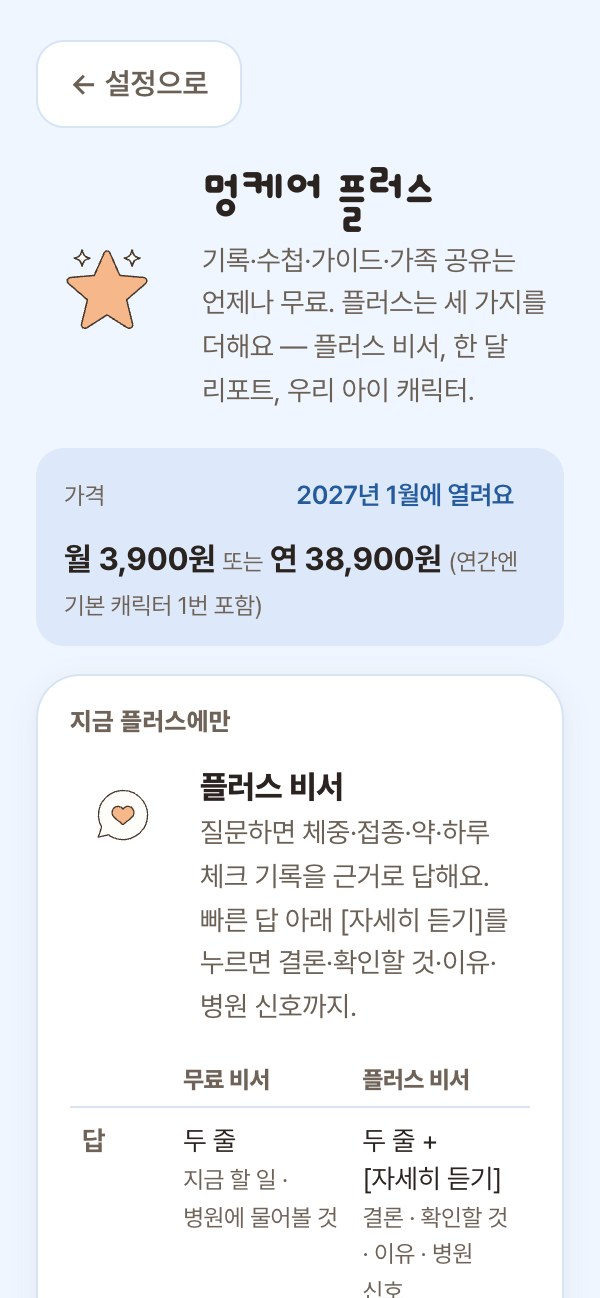
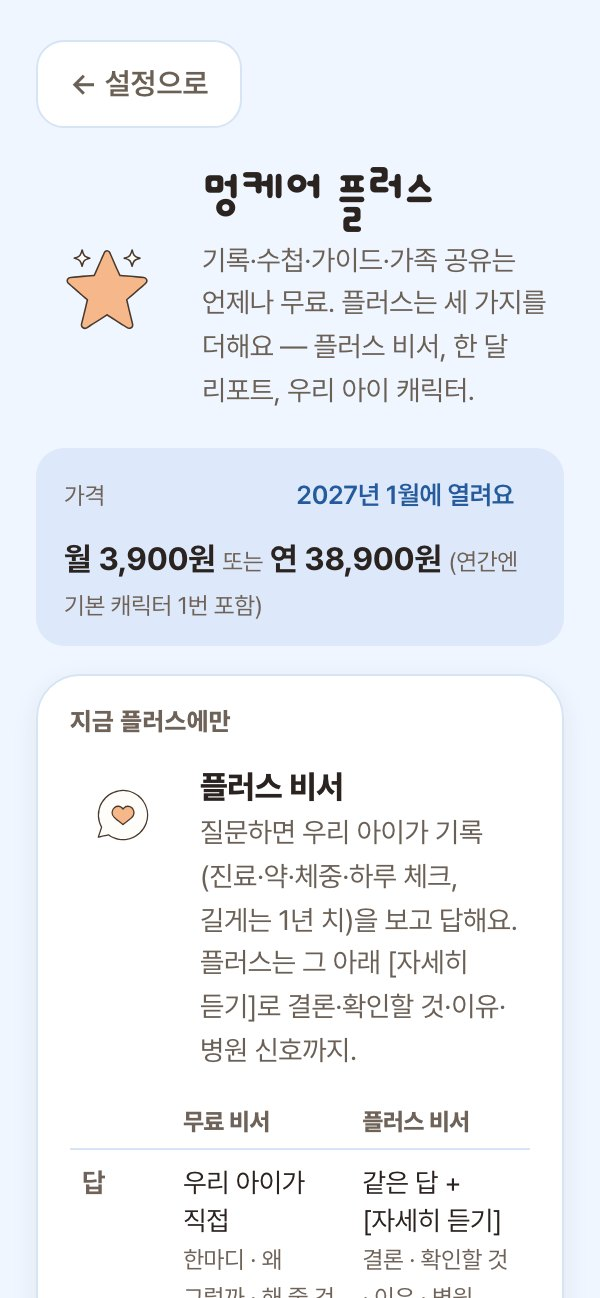
홈페이지: 플러스 섹션 한 장(사용자 확정, 자세한 가격·규칙은 설명서 07), 사업자 주소·통신판매업 신고 접수 표시, App Store 공식 한국어 배지(출시 스위치용), plus.jpg 새 화면 v4, 설명서 08에서 캐릭터 중복 질문 빼고 연간 절약 문장

Changed region(s): [[0.3, 0.6163, 0.84, 1.0], [0.12, 0.8629, 0.18, 0.9245]]

diff --git a/public/intro/guide/index.html b/public/intro/guide/index.html
@@ -45,7 +45,7 @@
     </section>
 
     <div class="wrap g-layout">
-      <aside class="g-side" aria-label="설명서 목차"><p class="g-side-title">목차</p><ul><li><a class="g-side-sec" href="#start"><svg class="sk" aria-hidden="true"><use href="/sk/stickers.svg?v=3#sk-tap"/></svg>처음 시작하기</a><ul><li><a href="#start-install">멍케어는 어디서 받아요?</a></li><li><a href="#start-why">왜 꼭 설치해야 해요?</a></li><li><a href="#start-login">로그인을 꼭 해야 해요?</a></li><li><a href="#start-dog">우리 아이는 어떻게 소개해요?</a></li><li><a href="#start-first">처음 들어가면 뭐부터 해요?</a></li><li><a href="#start-many">강아지가 여러 마리예요</a></li></ul></li><li><a class="g-side-sec" href="#assistant"><svg class="sk" aria-hidden="true"><use href="/sk/stickers.svg?v=3#sk-chatHeart"/></svg>비서 · 하루 체크</a><ul><li><a href="#as-home">첫 화면에는 뭐가 보여요?</a></li><li></li><li><a href="#as-checkin">하루 체크(평소와 같아요)는 뭐예요?</a><a href="#as-outing">말풍선 아래 [다녀올게]는 뭐예요?</a></li><li><a href="#as-puppy">퍼피 100일 카드는 뭐예요?</a></li><li><a href="#as-record">말로 기록하는 건 어떻게 해요?</a></li><li><a href="#as-voice">말로 해도 돼요?</a></li><li><a href="#as-fix">잘못 적었으면 어떻게 고쳐요?</a></li><li><a href="#as-ask">궁금한 걸 적으면 어떻게 돼요? (멍케어 비서)</a></li><li><a href="#as-emergency">급한 일이면요?</a></li><li><a href="#as-safe">멍케어가 진료를 해 주나요?</a></li></ul></li><li><a class="g-side-sec" href="#care"><svg class="sk" aria-hidden="true"><use href="/sk/stickers.svg?v=3#sk-handHeart"/></svg>케어 · 월령별 가이드</a><ul><li><a href="#ca-tab">케어 탭에는 뭐가 있어요?</a></li><li><a href="#ca-stage">지금 시기는 어떻게 정해요?</a></li><li><a href="#ca-card">카드에는 뭐가 적혀 있어요?</a></li><li><a href="#ca-fit">‘우리 아이 맞춤’은 뭐예요?</a></li><li><a href="#ca-ask">카드에 없는 건 어떻게 해요?</a></li><li><a href="#ca-later">성견·중년·노령 카드도 있어요?</a></li><li><a href="#ck-meal">밥 시간은 어떻게 정해요?</a></li><li><a href="#ck-health">건강 체크는 뭐예요?</a></li><li><a href="#ck-feed">사료 계산기는 어떻게 써요?</a></li><li><a href="#ck-food">사료가 떨어지기 전에 알려 줘요?</a></li><li><a href="#ck-alarm">알림·알람은 어떻게 맞춰요?</a></li></ul></li><li><a class="g-side-sec" href="#profile"><svg class="sk" aria-hidden="true"><use href="/sk/stickers.svg?v=3#sk-heartPlain"/></svg>우리 아이 · 기록</a><ul><li><a href="#pf-card">맨 위 카드에는 뭐가 있어요?</a></li><li><a href="#pf-vitals">건강 수치 칸은 어떻게 읽어요?</a></li><li><a href="#pf-records">건강 기록은 뭘 적어요?</a></li><li><a href="#pf-vet">병원용 기록은 뭐예요?</a></li><li><a href="#pf-meds">약은 어떻게 챙겨요?</a></li><li><a href="#pf-report">이번 주 리포트는 뭐예요?</a></li><li><a href="#pf-month">한 달 리포트는 뭐예요?</a></li><li><a href="#pf-settings">설정에는 뭐가 있어요?</a></li></ul></li><li><a class="g-side-sec" href="#calendar"><svg class="sk" aria-hidden="true"><use href="/sk/stickers.svg?v=3#sk-calendar"/></svg>병원 · 일정표</a><ul><li><a href="#cl-doc">진료 정리는 뭐예요?</a></li><li><a href="#cl-add">일정은 어떻게 넣어요?</a></li><li><a href="#cl-repeat">매달 하는 일은요?</a></li><li><a href="#cl-alarm">알림은 언제 와요?</a></li><li><a href="#cl-holiday">빨간 날짜는 뭐예요?</a></li><li><a href="#cl-vet">다녀온 병원도 보여요?</a></li><li><a href="#cl-today">다른 달을 보다가 오늘로 오려면요?</a></li></ul></li><li><a class="g-side-sec" href="#budget"><svg class="sk" aria-hidden="true"><use href="/sk/stickers.svg?v=3#sk-wallet"/></svg>가계부</a><ul><li><a href="#bd-add">쓴 돈은 어떻게 적어요?</a></li><li><a href="#bd-cats">분류는 뭐가 있어요?</a></li><li><a href="#bd-allow">용돈은 뭐예요?</a></li><li><a href="#bd-fixed">매달 나가는 돈은요?</a></li><li><a href="#bd-claim">보험 청구도 챙겨 줘요?</a></li><li><a href="#bd-see">한눈에 보려면요?</a></li><li><a href="#bd-find">예전 지출을 찾거나 내보내려면요?</a></li></ul></li><li><a class="g-side-sec" href="#plus"><svg class="sk" aria-hidden="true"><use href="/sk/stickers.svg?v=3#sk-sparkles"/></svg>멍케어 플러스 · 캐릭터</a><ul><li><a href="#pl-what">플러스에는 뭐가 들어 있어요?</a></li><li><a href="#pl-price">얼마예요? 언제 결제해요?</a></li><li><a href="#pl-char">우리 아이 캐릭터는 어떻게 만들어요?</a></li><li><a href="#pl-photo">캐릭터 사진은 어디로 가요?</a></li></ul></li><li><a class="g-side-sec" href="#more"><svg class="sk" aria-hidden="true"><use href="/sk/stickers.svg?v=3#sk-idea"/></svg>더 궁금한 것</a><ul><li><a href="#mo-away">낮에는 일하느라 집에 없는데 쓸모가 있나요?</a></li><li><a href="#mo-char">우리 아이 캐릭터는 어떻게 만들어요? 사진은 어디로 가요?</a></li><li><a href="#mo-notify">알림이 안 와요</a></li><li><a href="#mo-info">정보 카드는 무엇을 바탕으로 하나요?</a></li><li><a href="#mo-family">여러 마리나 가족과 함께 쓸 수 있나요?</a></li></ul></li></ul></aside>
+      <aside class="g-side" aria-label="설명서 목차"><p class="g-side-title">목차</p><ul><li><a class="g-side-sec" href="#start"><svg class="sk" aria-hidden="true"><use href="/sk/stickers.svg?v=3#sk-tap"/></svg>처음 시작하기</a><ul><li><a href="#start-install">멍케어는 어디서 받아요?</a></li><li><a href="#start-why">왜 꼭 설치해야 해요?</a></li><li><a href="#start-login">로그인을 꼭 해야 해요?</a></li><li><a href="#start-dog">우리 아이는 어떻게 소개해요?</a></li><li><a href="#start-first">처음 들어가면 뭐부터 해요?</a></li><li><a href="#start-many">강아지가 여러 마리예요</a></li></ul></li><li><a class="g-side-sec" href="#assistant"><svg class="sk" aria-hidden="true"><use href="/sk/stickers.svg?v=3#sk-chatHeart"/></svg>비서 · 하루 체크</a><ul><li><a href="#as-home">첫 화면에는 뭐가 보여요?</a></li><li></li><li><a href="#as-checkin">하루 체크(평소와 같아요)는 뭐예요?</a><a href="#as-outing">말풍선 아래 [다녀올게]는 뭐예요?</a></li><li><a href="#as-puppy">퍼피 100일 카드는 뭐예요?</a></li><li><a href="#as-record">말로 기록하는 건 어떻게 해요?</a></li><li><a href="#as-voice">말로 해도 돼요?</a></li><li><a href="#as-fix">잘못 적었으면 어떻게 고쳐요?</a></li><li><a href="#as-ask">궁금한 걸 적으면 어떻게 돼요? (멍케어 비서)</a></li><li><a href="#as-emergency">급한 일이면요?</a></li><li><a href="#as-safe">멍케어가 진료를 해 주나요?</a></li></ul></li><li><a class="g-side-sec" href="#care"><svg class="sk" aria-hidden="true"><use href="/sk/stickers.svg?v=3#sk-handHeart"/></svg>케어 · 월령별 가이드</a><ul><li><a href="#ca-tab">케어 탭에는 뭐가 있어요?</a></li><li><a href="#ca-stage">지금 시기는 어떻게 정해요?</a></li><li><a href="#ca-card">카드에는 뭐가 적혀 있어요?</a></li><li><a href="#ca-fit">‘우리 아이 맞춤’은 뭐예요?</a></li><li><a href="#ca-ask">카드에 없는 건 어떻게 해요?</a></li><li><a href="#ca-later">성견·중년·노령 카드도 있어요?</a></li><li><a href="#ck-meal">밥 시간은 어떻게 정해요?</a></li><li><a href="#ck-health">건강 체크는 뭐예요?</a></li><li><a href="#ck-feed">사료 계산기는 어떻게 써요?</a></li><li><a href="#ck-food">사료가 떨어지기 전에 알려 줘요?</a></li><li><a href="#ck-alarm">알림·알람은 어떻게 맞춰요?</a></li></ul></li><li><a class="g-side-sec" href="#profile"><svg class="sk" aria-hidden="true"><use href="/sk/stickers.svg?v=3#sk-heartPlain"/></svg>우리 아이 · 기록</a><ul><li><a href="#pf-card">맨 위 카드에는 뭐가 있어요?</a></li><li><a href="#pf-vitals">건강 수치 칸은 어떻게 읽어요?</a></li><li><a href="#pf-records">건강 기록은 뭘 적어요?</a></li><li><a href="#pf-vet">병원용 기록은 뭐예요?</a></li><li><a href="#pf-meds">약은 어떻게 챙겨요?</a></li><li><a href="#pf-report">이번 주 리포트는 뭐예요?</a></li><li><a href="#pf-month">한 달 리포트는 뭐예요?</a></li><li><a href="#pf-settings">설정에는 뭐가 있어요?</a></li></ul></li><li><a class="g-side-sec" href="#calendar"><svg class="sk" aria-hidden="true"><use href="/sk/stickers.svg?v=3#sk-calendar"/></svg>병원 · 일정표</a><ul><li><a href="#cl-doc">진료 정리는 뭐예요?</a></li><li><a href="#cl-add">일정은 어떻게 넣어요?</a></li><li><a href="#cl-repeat">매달 하는 일은요?</a></li><li><a href="#cl-alarm">알림은 언제 와요?</a></li><li><a href="#cl-holiday">빨간 날짜는 뭐예요?</a></li><li><a href="#cl-vet">다녀온 병원도 보여요?</a></li><li><a href="#cl-today">다른 달을 보다가 오늘로 오려면요?</a></li></ul></li><li><a class="g-side-sec" href="#budget"><svg class="sk" aria-hidden="true"><use href="/sk/stickers.svg?v=3#sk-wallet"/></svg>가계부</a><ul><li><a href="#bd-add">쓴 돈은 어떻게 적어요?</a></li><li><a href="#bd-cats">분류는 뭐가 있어요?</a></li><li><a href="#bd-allow">용돈은 뭐예요?</a></li><li><a href="#bd-fixed">매달 나가는 돈은요?</a></li><li><a href="#bd-claim">보험 청구도 챙겨 줘요?</a></li><li><a href="#bd-see">한눈에 보려면요?</a></li><li><a href="#bd-find">예전 지출을 찾거나 내보내려면요?</a></li></ul></li><li><a class="g-side-sec" href="#plus"><svg class="sk" aria-hidden="true"><use href="/sk/stickers.svg?v=3#sk-sparkles"/></svg>멍케어 플러스 · 캐릭터</a><ul><li><a href="#pl-what">플러스에는 뭐가 들어 있어요?</a></li><li><a href="#pl-price">얼마예요? 언제 결제해요?</a></li><li><a href="#pl-char">우리 아이 캐릭터는 어떻게 만들어요?</a></li><li><a href="#pl-photo">캐릭터 사진은 어디로 가요?</a></li></ul></li><li><a class="g-side-sec" href="#more"><svg class="sk" aria-hidden="true"><use href="/sk/stickers.svg?v=3#sk-idea"/></svg>더 궁금한 것</a><ul><li><a href="#mo-away">낮에는 일하느라 집에 없는데 쓸모가 있나요?</a></li><li></li><li><a href="#mo-notify">알림이 안 와요</a></li><li><a href="#mo-info">정보 카드는 무엇을 바탕으로 하나요?</a></li><li><a href="#mo-family">여러 마리나 가족과 함께 쓸 수 있나요?</a></li></ul></li></ul></aside>
       <div class="g-content">
       <section class="g-sec" id="start" aria-labelledby="start-t">
         <header class="g-sec-head">
@@ -134,9 +134,9 @@
             <p class="g-sum">지금 쓰는 기능은 전부 계속 무료예요. 플러스는 <b>플러스 비서 · 한 달 리포트 · 우리 아이 캐릭터</b> 세 가지를 더해요. 결제는 2027년 1월에 열려요.</p>
             <nav class="g-qlist" aria-label="멍케어 플러스에서 궁금한 것"><a href="#pl-what">플러스에는 뭐가 들어 있어요?<svg class="ic" aria-hidden="true"><use href="/intro/sprite.svg#i-chev"/></svg></a><a href="#pl-price">얼마예요? 언제 결제해요?<svg class="ic" aria-hidden="true"><use href="/intro/sprite.svg#i-chev"/></svg></a><a href="#pl-char">우리 아이 캐릭터는 어떻게 만들어요?<svg class="ic" aria-hidden="true"><use href="/intro/sprite.svg#i-chev"/></svg></a><a href="#pl-photo">캐릭터 사진은 어디로 가요?<svg class="ic" aria-hidden="true"><use href="/intro/sprite.svg#i-chev"/></svg></a></nav>
           </div>
-          <figure class="g-sec-shot"><img src="/intro/img/plus.jpg?v=3" alt="멍케어 플러스 화면 예시" width="300" height="649" loading="lazy" /><figcaption>예시 화면</figcaption></figure>
+          <figure class="g-sec-shot"><img src="/intro/img/plus.jpg?v=4" alt="멍케어 플러스 화면 예시" width="300" height="649" loading="lazy" /><figcaption>예시 화면</figcaption></figure>
         </header>
-        <article class="g-q" id="pl-what"><h3>플러스에는 뭐가 들어 있어요?</h3><dl class="g-table"><div><dt>플러스 비서</dt><dd>무료 비서는 우리 아이가 한마디와 이유·할 일·병원 신호로 답해요(새 질문 하루 5개, 이어 묻기 두 번씩). 플러스는 그 아래 [자세히 듣기]로 결론 · 집에서 확인할 것 · 생각해 볼 이유 · 병원에 가야 할 신호 · 병원에서 할 말 다섯 칸(하루 20번). 둘 다 우리 아이 기록을 보고 답해요.</dd></div><div><dt>한 달 리포트</dt><dd>지난달과 달라진 점 세 줄 · 증상 난 날 앞뒤 겹쳐 보기 · 달력 한 장 · 체중 흐름 · 이 달 자랑 카드 · 비서 세 칸 해설(잘한 것 · 지켜볼 것 · 다음 달 할 일). <a href="#pf-month">자세히</a></dd></div><div><dt>우리 아이 캐릭터</dt><dd>연간 플러스엔 기본 캐릭터 1번이 들어 있고, 정성 올리기·그림체 추가는 플러스 할인이에요.</dd></div></dl><p class="g-note"><svg class="sk" aria-hidden="true"><use href="/sk/stickers.svg?v=3#sk-heart"/></svg><span>하루 체크 · 기록 · 병원용 기록 · 이상 신호 · 알림 · 이번 주 리포트 · 월령별 가이드 · 가족 공유 · 여러 마리는 플러스와 상관없이 계속 무료예요.</span></p></article><article class="g-q" id="pl-price"><h3>얼마예요? 언제 결제해요?</h3><p>가격은 <b>월 3,900원 또는 연 38,900원</b>이에요. 캐릭터 단품은 기본 4,900원(후보 4장 → 1장, 기본 움직임 2편) · 정성 9,900원(부가 동작 3편) · 다른 그림체 추가 3,900원이에요.</p><p><b>결제는 2027년 1월에 열려요.</b> 설정 → <b>멍케어 플러스</b>에서 <b>[열리면 알려 주세요]</b>를 켜 두면 열리는 날 알림을 보내 드려요. 정해 둔 규칙 네 가지: 연간을 중간에 해지하면 쓴 달을 월 3,900원으로 빼고(캐릭터를 만들었으면 4,900원도) 나머지를 돌려드려요 · 월간은 해지해도 그달 결제일 전날까지 쓰고 환불은 없어요 · 자동 갱신 7일 전에 이메일로 알려요 · 결제는 만 19세 이상만.</p></article><article class="g-q" id="pl-char"><h3>우리 아이 캐릭터는 어떻게 만들어요?</h3><ol class="g-steps"><li>설정 → 멍케어 플러스 → <b>우리 아이 캐릭터</b>. 결제가 열리는 2027년 1월부터 만들 수 있어요. 그 전에는 <b>[열리면 알려 주세요]</b>를 켜 둬요.</li><li>그림체를 골라요. <b>3D 영화풍</b>(포근한 애니메이션 느낌) 또는 <b>손그림 크레파스</b>(그림일기 느낌).</li><li>얼굴이 잘 보이는 사진 <b>2~4장</b>을 올리고 동의(만 19세 이상 · 국외 전송 · 시작 뒤 취소 불가)에 체크해요.</li><li>3분쯤 뒤 <b>후보 4장</b>이 나와요. 가장 닮은 하나를 고르고, 아니면 [다시 뽑기](2번까지).</li><li>10분쯤 뒤 <b>기다리기 · 고민하기</b> 영상 2편이 완성되고, 첫 화면 강아지가 우리 아이로 바뀌어요. 만드는 동안 첫 화면 오른쪽 위에 발바닥 게이지가 돌아요.</li></ol><p>정성은 기쁨 · 밥 기다림 · 졸림 세 편을 더해요. 캐릭터 화면에서 각 동작을 켜고 끄고, 몇 초·몇 분 전후·몇 시부터 졸지 맞출 수 있어요. 밤엔 졸고, 밥 시간엔 그릇을 보고, 기록을 저장하면 기뻐해요.</p><p class="g-tip"><svg class="sk" aria-hidden="true"><use href="/sk/stickers.svg?v=3#sk-idea"/></svg><span><b>잘 나오게 하려면</b> 정면·옆·전신이 섞인 밝은 사진이 좋아요. 목줄·옷은 빼고, 다른 강아지가 같이 찍힌 사진은 피해요.</span></p></article><article class="g-q" id="pl-photo"><h3>캐릭터 사진은 어디로 가요?</h3><p>올리기 전에 폰에서 <b>위치·기기 정보(EXIF)를 지우고</b> 크기를 줄여요. 그림은 Google Gemini, 영상은 Runway(미국) 서버에서 만들어지고, <b>캐릭터가 완성되면 원본 사진은 바로 지워요</b>. 완성된 캐릭터 영상만 멍케어 서버에 남아 우리 아이 화면에 쓰여요.</p><p>캐릭터는 설정 → 우리 아이 캐릭터에서 언제든 지울 수 있고, 기록·병원용 기록과는 상관없이 따로 저장돼요.</p></article>
+        <article class="g-q" id="pl-what"><h3>플러스에는 뭐가 들어 있어요?</h3><dl class="g-table"><div><dt>플러스 비서</dt><dd>무료 비서는 우리 아이가 한마디와 이유·할 일·병원 신호로 답해요(새 질문 하루 5개, 이어 묻기 두 번씩). 플러스는 그 아래 [자세히 듣기]로 결론 · 집에서 확인할 것 · 생각해 볼 이유 · 병원에 가야 할 신호 · 병원에서 할 말 다섯 칸(하루 20번). 둘 다 우리 아이 기록을 보고 답해요.</dd></div><div><dt>한 달 리포트</dt><dd>지난달과 달라진 점 세 줄 · 증상 난 날 앞뒤 겹쳐 보기 · 달력 한 장 · 체중 흐름 · 이 달 자랑 카드 · 비서 세 칸 해설(잘한 것 · 지켜볼 것 · 다음 달 할 일). <a href="#pf-month">자세히</a></dd></div><div><dt>우리 아이 캐릭터</dt><dd>연간 플러스엔 기본 캐릭터 1번이 들어 있고, 정성 올리기·그림체 추가는 플러스 할인이에요.</dd></div></dl><p class="g-note"><svg class="sk" aria-hidden="true"><use href="/sk/stickers.svg?v=3#sk-heart"/></svg><span>하루 체크 · 기록 · 병원용 기록 · 이상 신호 · 알림 · 이번 주 리포트 · 월령별 가이드 · 가족 공유 · 여러 마리는 플러스와 상관없이 계속 무료예요.</span></p></article><article class="g-q" id="pl-price"><h3>얼마예요? 언제 결제해요?</h3><p>가격은 <b>월 3,900원 또는 연 38,900원</b>이에요. 연간은 매달 내는 것(46,800원)보다 7,900원 싸고, 기본 캐릭터 1번(4,900원 상당)이 들어 있어요. 캐릭터 단품은 기본 4,900원(후보 4장 → 1장, 기본 움직임 2편) · 정성 9,900원(부가 동작 3편) · 다른 그림체 추가 3,900원이에요.</p><p><b>결제는 2027년 1월에 열려요.</b> 설정 → <b>멍케어 플러스</b>에서 <b>[열리면 알려 주세요]</b>를 켜 두면 열리는 날 알림을 보내 드려요. 정해 둔 규칙 네 가지: 연간을 중간에 해지하면 쓴 달을 월 3,900원으로 빼고(캐릭터를 만들었으면 4,900원도) 나머지를 돌려드려요 · 월간은 해지해도 그달 결제일 전날까지 쓰고 환불은 없어요 · 자동 갱신 7일 전에 이메일로 알려요 · 결제는 만 19세 이상만.</p></article><article class="g-q" id="pl-char"><h3>우리 아이 캐릭터는 어떻게 만들어요?</h3><ol class="g-steps"><li>설정 → 멍케어 플러스 → <b>우리 아이 캐릭터</b>. 결제가 열리는 2027년 1월부터 만들 수 있어요. 그 전에는 <b>[열리면 알려 주세요]</b>를 켜 둬요.</li><li>그림체를 골라요. <b>3D 영화풍</b>(포근한 애니메이션 느낌) 또는 <b>손그림 크레파스</b>(그림일기 느낌).</li><li>얼굴이 잘 보이는 사진 <b>2~4장</b>을 올리고 동의(만 19세 이상 · 국외 전송 · 시작 뒤 취소 불가)에 체크해요.</li><li>3분쯤 뒤 <b>후보 4장</b>이 나와요. 가장 닮은 하나를 고르고, 아니면 [다시 뽑기](2번까지).</li><li>10분쯤 뒤 <b>기다리기 · 고민하기</b> 영상 2편이 완성되고, 첫 화면 강아지가 우리 아이로 바뀌어요. 만드는 동안 첫 화면 오른쪽 위에 발바닥 게이지가 돌아요.</li></ol><p>정성은 기쁨 · 밥 기다림 · 졸림 세 편을 더해요. 캐릭터 화면에서 각 동작을 켜고 끄고, 몇 초·몇 분 전후·몇 시부터 졸지 맞출 수 있어요. 밤엔 졸고, 밥 시간엔 그릇을 보고, 기록을 저장하면 기뻐해요.</p><p class="g-tip"><svg class="sk" aria-hidden="true"><use href="/sk/stickers.svg?v=3#sk-idea"/></svg><span><b>잘 나오게 하려면</b> 정면·옆·전신이 섞인 밝은 사진이 좋아요. 목줄·옷은 빼고, 다른 강아지가 같이 찍힌 사진은 피해요.</span></p></article><article class="g-q" id="pl-photo"><h3>캐릭터 사진은 어디로 가요?</h3><p>올리기 전에 폰에서 <b>위치·기기 정보(EXIF)를 지우고</b> 크기를 줄여요. 그림은 Google Gemini, 영상은 Runway(미국) 서버에서 만들어지고, <b>캐릭터가 완성되면 원본 사진은 바로 지워요</b>. 완성된 캐릭터 영상만 멍케어 서버에 남아 우리 아이 화면에 쓰여요.</p><p>캐릭터는 설정 → 우리 아이 캐릭터에서 언제든 지울 수 있고, 기록·병원용 기록과는 상관없이 따로 저장돼요.</p></article>
         <a class="g-next" href="/?app"><span>다 읽었어요!</span><b>멍케어 시작하기</b><svg class="ic" aria-hidden="true"><use href="/intro/sprite.svg#i-chev"/></svg></a>
       </section>
         <section class="g-sec" id="more" aria-labelledby="more-t">
@@ -145,11 +145,10 @@
             <p class="g-sec-num">08</p>
             <h2 id="more-t"><svg class="sk" aria-hidden="true"><use href="/sk/stickers.svg?v=3#sk-idea"/></svg>더 궁금한 것</h2>
             <p class="g-sum">소개 페이지의 자주 묻는 질문에서 옮겨 온 것들이에요.</p>
-            <nav class="g-qlist" aria-label="더 궁금한 것"><a href="#mo-away">낮에는 일하느라 집에 없는데 쓸모가 있나요?<svg class="ic" aria-hidden="true"><use href="/intro/sprite.svg#i-chev"/></svg></a><a href="#mo-char">우리 아이 캐릭터는 어떻게 만들어요? 사진은 어디로 가요?<svg class="ic" aria-hidden="true"><use href="/intro/sprite.svg#i-chev"/></svg></a><a href="#mo-notify">알림이 안 와요<svg class="ic" aria-hidden="true"><use href="/intro/sprite.svg#i-chev"/></svg></a><a href="#mo-info">정보 카드는 무엇을 바탕으로 하나요?<svg class="ic" aria-hidden="true"><use href="/intro/sprite.svg#i-chev"/></svg></a><a href="#mo-family">여러 마리나 가족과 함께 쓸 수 있나요?<svg class="ic" aria-hidden="true"><use href="/intro/sprite.svg#i-chev"/></svg></a></nav>
+            <nav class="g-qlist" aria-label="더 궁금한 것"><a href="#mo-away">낮에는 일하느라 집에 없는데 쓸모가 있나요?<svg class="ic" aria-hidden="true"><use href="/intro/sprite.svg#i-chev"/></svg></a><a href="#mo-notify">알림이 안 와요<svg class="ic" aria-hidden="true"><use href="/intro/sprite.svg#i-chev"/></svg></a><a href="#mo-info">정보 카드는 무엇을 바탕으로 하나요?<svg class="ic" aria-hidden="true"><use href="/intro/sprite.svg#i-chev"/></svg></a><a href="#mo-family">여러 마리나 가족과 함께 쓸 수 있나요?<svg class="ic" aria-hidden="true"><use href="/intro/sprite.svg#i-chev"/></svg></a></nav>
           </div>
         </header>
         <article class="g-q" id="mo-away"><h3>낮에는 일하느라 집에 없는데 쓸모가 있나요?</h3><p>네. 나갈 때 <b>[다녀올게]</b>를 누르면 혼자 있는 시간을 챙겨 주고, 평소 외출 시간을 정해 두면 들어오는 시각 30분 뒤에 하루 체크 알림이 와요. 하루 기록은 <b>한 번</b>이면 되고, 일요일 저녁엔 한 주를 모은 <b>주간 리포트</b>가 와요. 사료가 떨어지기 5일 전 점심에도 미리 알려 줘요.</p></article>
-        <article class="g-q" id="mo-char"><h3>우리 아이 캐릭터는 어떻게 만들어요? 사진은 어디로 가요?</h3><p>설정 → 멍케어 플러스 → <b>우리 아이 캐릭터</b>에서 그림체(3D 영화풍 / 손그림 크레파스)를 고르고 사진 2~4장을 올려요. 후보 4장이 나오면 가장 닮은 하나를 고르고(다시 뽑기 2번), 10분쯤 뒤 기다리기·고민하기 영상 2편이 첫 화면 강아지 자리에 들어가요. 정성은 기쁨·밥 기다림·졸림 세 편을 더하고, 캐릭터 화면에서 켜고 끄고 시간을 맞출 수 있어요. 사진은 위치 정보를 지운 뒤 그림·영상 AI(해외 서버)로 보내고, <b>캐릭터를 만든 뒤 바로 지워요</b>. 시작할 때 만 19세 이상 확인과 국외 전송 동의를 받고, 생성이 시작되면 취소할 수 없어요. 지금은 곧 출시 상태라 “출시되면 알려 주세요”를 켜 두거나 초대 코드로 먼저 써 볼 수 있어요.</p></article>
         <article class="g-q" id="mo-notify"><h3>알림이 안 와요</h3><p>아이폰은 홈 화면에 설치한 멍케어로 열었을 때만 알림을 받을 수 있어요. 앱의 알림·알람 화면에서 알림을 켜 주세요. 한 번 거절했다면 아이폰 설정 → 알림 → 멍케어에서 켤 수 있어요.</p></article>
         <article class="g-q" id="mo-info"><h3>정보 카드는 무엇을 바탕으로 하나요?</h3><p>WSAVA(세계소동물수의사회)·Merck 수의학 매뉴얼 같은 공개 수의학 자료를 바탕으로 만들고, 사실을 하나씩 확인했어요. 초콜릿·포도를 먹었거나 경련, 숨쉬기 이상처럼 응급일 수 있는 말이 보이면 <b>지금 바로 동물병원에 연락</b>하라고 먼저 알려 드리고, 24시 동물병원 찾기를 보여 드려요. 약 이름이나 용량은 알려 드리지 않아요.</p></article>
         <article class="g-q" id="mo-family"><h3>여러 마리나 가족과 함께 쓸 수 있나요?</h3><p>네. 강아지를 여러 마리 등록해 따로 관리할 수 있고, 로그인하면 가족을 초대해 같은 기록을 함께 볼 수 있어요. 강아지가 본가에 있으면 가족이 적은 “다른 게 있었어요”를 알림으로 받아요. 지금은 강아지만 지원해요.</p></article>

diff --git a/public/intro/index.html b/public/intro/index.html
@@ -386,87 +386,16 @@
     <!-- 5.5 멍케어 플러스(11/19): 무료 범위 먼저, 플러스 세 가지, 결제는 2027년 1월(11/25) -->
     <section class="plus" id="plus" aria-labelledby="plus-title">
       <div class="wrap">
-        <p class="kicker center">멍케어 플러스</p>
+        <p class="kicker center">멍케어 플러스 · 2027년 1월에 열려요</p>
         <h2 id="plus-title" class="sec-title">더 깊이 알고 싶은 날엔 <em>플러스</em></h2>
-        <p class="plus-lead">하루 체크 · 기록 · 병원용 기록 · 이상 신호 · 알림 · 이번 주 리포트 · 월령별 가이드 · 가족 공유 · 여러 마리 — <b>지금 쓰는 건 전부 계속 무료</b>예요. 플러스는 여기에 세 가지를 더해요.</p>
-
+        <p class="plus-lead">지금 쓰는 기능은 <b>전부 계속 무료</b>예요. 플러스는 여기에 세 가지를 더해요.</p>
         <div class="pl-three" aria-label="플러스에 들어 있는 세 가지">
-          <a class="pl-tile" href="#pl-asst"><svg class="sk" aria-hidden="true"><use href="/sk/stickers.svg?v=3#sk-chatHeart"/></svg><b>플러스 비서</b><small>자세한 답 · 하루 20번</small></a>
-          <a class="pl-tile" href="#pl-month"><svg class="sk" aria-hidden="true"><use href="/sk/stickers.svg?v=3#sk-calendar"/></svg><b>한 달 리포트</b><small>달라진 점 · 겹쳐 보기</small></a>
-          <a class="pl-tile" href="#pl-char"><svg class="sk" aria-hidden="true"><use href="/sk/stickers.svg?v=3#sk-video"/></svg><b>우리 아이 캐릭터</b><small>연간에 기본 1번 포함</small></a>
+          <div class="pl-tile"><svg class="sk" aria-hidden="true"><use href="/sk/stickers.svg?v=3#sk-chatHeart"/></svg><b>플러스 비서</b><small>자세한 다섯 칸 답</small></div>
+          <div class="pl-tile"><svg class="sk" aria-hidden="true"><use href="/sk/stickers.svg?v=3#sk-calendar"/></svg><b>한 달 리포트</b><small>달라진 점 · 겹쳐 보기</small></div>
+          <div class="pl-tile"><svg class="sk" aria-hidden="true"><use href="/sk/stickers.svg?v=3#sk-video"/></svg><b>우리 아이 캐릭터</b><small>사진으로 만드는 움직이는 캐릭터</small></div>
         </div>
-
-        <div class="pl-plans" aria-label="플러스 가격">
-          <div class="pl-plan on">
-            <span class="pl-tag">17% 절약</span>
-            <div class="pl-nm">1년</div>
-            <div class="pl-price">38,900<small>원</small></div>
-            <p>1년에 한 번 결제<br>월 3,900 × 12 = 46,800원보다 7,900원 아껴요</p>
-            <div class="pl-bonus"><svg class="sk" aria-hidden="true"><use href="/sk/stickers.svg?v=3#sk-video"/></svg><span><b>기본 캐릭터 1번 포함</b>4,900원 상당</span></div>
-          </div>
-          <div class="pl-plan">
-            <div class="pl-nm">한 달</div>
-            <div class="pl-price">3,900<small>원</small></div>
-            <p>매달 같은 날 결제<br>언제든 해지</p>
-            <p class="pl-dim">캐릭터는 단품으로 따로</p>
-          </div>
-        </div>
-
-        <table class="pl-cmp" aria-label="무료와 플러스 비교">
-          <thead><tr><th></th><th>무료</th><th class="pl">플러스</th></tr></thead>
-          <tbody>
-            <tr><td>하루 체크 · 기록 · 병원용 기록 · 알림 · 가족 공유</td><td class="ok">✓</td><td class="pl ok">✓</td></tr>
-            <tr><td>비서에게 묻기</td><td>하루 질문 5개</td><td class="pl ok">하루 질문 50개</td></tr>
-            <tr><td>비서 자세히 듣기(다섯 칸)</td><td class="no">—</td><td class="pl ok">하루 20번</td></tr>
-            <tr><td>한 달 리포트</td><td class="no">—</td><td class="pl ok">✓</td></tr>
-            <tr><td>우리 아이 캐릭터</td><td>단품 4,900원~</td><td class="pl ok">연간 1번 포함</td></tr>
-          </tbody>
-        </table>
-
-        <div class="pl-detail">
-          <article class="plus-card" id="pl-asst">
-            <figure class="phone mini"><img src="/intro/img/plus.jpg?v=3" alt="멍케어 플러스 화면 — 가격과 플러스 비서 설명" width="300" height="649" loading="lazy" /></figure>
-            <div class="plus-text">
-              <svg class="sk" aria-hidden="true"><use href="/sk/stickers.svg?v=3#sk-chatHeart"/></svg>
-              <b>플러스 비서</b>
-              <p>누구나 먼저 우리 아이가 기록을 보고 <b>한마디 · 왜 그럴까 · 지금 해 줄 것 · 병원 신호</b>로 답하고, 같은 이야기로 두 번까지 이어서 물을 수 있어요. 플러스는 그 아래 <b>[자세히 듣기]</b>를 누르면 <b>결론 → 집에서 확인할 것 → 생각해 볼 이유 → 병원에 가야 할 신호 → 병원에서 할 말</b> 다섯 칸으로 와요. 둘 다 우리 아이 기록을 보고 답하고, 진단을 단정하거나 약 용량을 말하지 않아요.</p>
-            </div>
-          </article>
-          <article class="plus-card" id="pl-month">
-            <figure class="phone mini"><img src="/intro/img/month.jpg?v=15" alt="한 달 리포트 화면 — 달력 한 장과 체중 곡선" width="300" height="649" loading="lazy" /></figure>
-            <div class="plus-text">
-              <svg class="sk" aria-hidden="true"><use href="/sk/stickers.svg?v=3#sk-calendar"/></svg>
-              <b>한 달 리포트</b>
-              <p>지난달과 <b>달라진 점 세 줄</b>(산책이 5일 → 12일처럼 숫자만), 증상 난 날 <b>앞뒤를 겹쳐 보기</b>(전날 밥을 적게 먹었나), 달력 한 장, 체중 흐름, 달마다 상장을 하나씩 받는 그림일기 <b>자랑 카드</b>(누구나 받고 순위는 없어요). 플러스 비서가 <b>잘한 것 · 지켜볼 것 · 다음 달 할 일</b> 세 칸으로 읽어 줘요. 이번 주 리포트는 계속 무료.</p>
-            </div>
-          </article>
-        </div>
-
-        <div class="pl-single" id="pl-char">
-          <div class="pl-single-head">
-            <svg class="sk" aria-hidden="true"><use href="/sk/stickers.svg?v=3#sk-video"/></svg>
-            <div><b>우리 아이 캐릭터</b><span>플러스 없이 단품으로도 가져요</span></div>
-          </div>
-          <p class="pl-single-lead">사진 2~4장을 올리면 <b>우리 아이를 닮은 후보 4장</b>이 나와요. 고른 그림이 <b>움직이는 영상</b>이 돼 첫 화면 강아지 자리에 살아요.</p>
-          <div class="plus-art" aria-label="같은 강아지로 만든 두 그림체 예시">
-            <figure><img src="/character/sample-3d.jpg" alt="3D 영화풍 캐릭터 예시" width="480" height="480" loading="lazy" /><figcaption>3D 영화풍</figcaption></figure>
-            <figure><img src="/character/sample-hand.jpg" alt="손그림 크레파스 캐릭터 예시" width="480" height="480" loading="lazy" /><figcaption>손그림 크레파스</figcaption></figure>
-          </div>
-          <div class="pl-tiers">
-            <div class="pl-tier"><div><b>기본</b><span>후보 4장 중 1장 · 다시 뽑기 2번 · 움직임 2편(기다리기 · 고민하기)</span></div><em>4,900<small>원</small></em></div>
-            <div class="pl-tier"><div><b>정성</b><span>기본 + 부가 동작 3편(기쁨 · 밥 기다림 · 졸림) · 다시 뽑기 4번 · 사람이 보정</span></div><em>9,900<small>원</small></em></div>
-            <div class="pl-tier add"><div><b>다른 그림체 하나 더</b><span>추가로 내는 돈 · 플러스면 2,900원</span></div><em>+3,900<small>원</small></em></div>
-          </div>
-          <p class="pl-warn"><svg class="sk" aria-hidden="true"><use href="/sk/stickers.svg?v=3#sk-lock"/></svg><span><b>후보를 먼저 보고 골라요.</b> 하나도 안 닮으면 그 자리에서 전액 환불. 만든 뒤에는 디지털 콘텐츠라 단순 변심 환불이 안 돼요. 사진은 캐릭터가 완성되면 지워요.</span></p>
-        </div>
-
-        <div class="pl-policy" aria-label="결제 정책">
-          <div><b>연간 중도 해지</b>쓴 달을 월 3,900원으로 빼고, 캐릭터를 만들었으면 4,900원도 빼고 나머지를 돌려드려요. 위약금 없음.</div>
-          <div><b>월간 해지</b>해지해도 그달 결제일 전날까지 쓰고, 다음 달부터 결제되지 않아요.</div>
-          <div><b>자동 갱신 알림</b>결제 7일 전에 이메일로 미리 알려요. 해지는 설정 › 플러스에서 한 번에.</div>
-          <div><b>결제 나이</b>플러스·캐릭터 모두 만 19세 이상만 결제할 수 있어요.</div>
-        </div>
-        <p class="plus-price-beta"><svg class="sk" aria-hidden="true"><use href="/sk/stickers.svg?v=3#sk-sparkles"/></svg><span><b>결제는 2027년 1월에 열려요.</b> 설정 → <b>멍케어 플러스</b>에서 <b>[열리면 알려 주세요]</b>를 켜 두면 열리는 날 알림을 보내 드려요.</span></p>
+        <p class="pl-one">월 <b>3,900원</b> · 연 <b>38,900원</b><span>연간엔 캐릭터 1번 포함</span></p>
+        <p class="pl-more"><a class="btn btn-lg btn-ghost" href="/intro/guide/#plus">가격·환불 규칙 자세히 보기</a></p>
       </div>
     </section>
 
@@ -577,7 +506,7 @@
     <div class="wrap foot-in">
       <div>
         <p class="brand foot-brand"><img src="/icon-192.png?v=6" alt="" width="24" height="24" loading="lazy" /> 멍케어</p>
-        <p class="biz">상호: 멍케어 · 대표: 최정환 · 사업자등록번호: 409-37-70752<br />주소: 경기도 시흥시 은행동<br />문의: <a href="mailto:meongcare.app@gmail.com">meongcare.app@gmail.com</a></p>
+        <p class="biz">상호: 멍케어 · 대표: 최정환 · 사업자등록번호: 409-37-70752<br />통신판매업 신고: 신고 접수(번호 발급 대기)<br />주소: 경기도 시흥시 은행로 122<br />문의: <a href="mailto:meongcare.app@gmail.com">meongcare.app@gmail.com</a></p>
         <p class="disclaimer">멍케어는 보호자가 기록·일정·정보를 편하게 챙기도록 돕는 기록 도우미 서비스예요. 진료(진찰·진단·처방·치료)를 하지 않으며, 수의사의 진료를 대신하지 않아요.</p>
       </div>
       <nav class="foot-links" aria-label="정책·문의">

diff --git a/public/intro/home.css b/public/intro/home.css
@@ -421,3 +421,7 @@ button, input, select, textarea { font-family: inherit; }
 .biz { line-height: 1.8; }
 .steps .step-num { color: var(--ink); } /* li 안 span 규칙에 눌려 흐린 글자(2.98:1)가 되던 것 */
 a[href^="mailto"], .faq p a { display: inline-block; padding-block: 5px; }
+/* 플러스 한 장(11/28 사용자 확정 — 가격 카드·비교표·자세한 카드·단품가·규칙은 기능 설명서 07로) */
+.pl-one { text-align: center; margin: 6px 0 16px; font-size: 17px; color: var(--ink); }
+.pl-one span { display: block; font-size: 13.5px; color: var(--ink-soft); margin-top: 2px; }
+.pl-more { text-align: center; margin: 0; }
